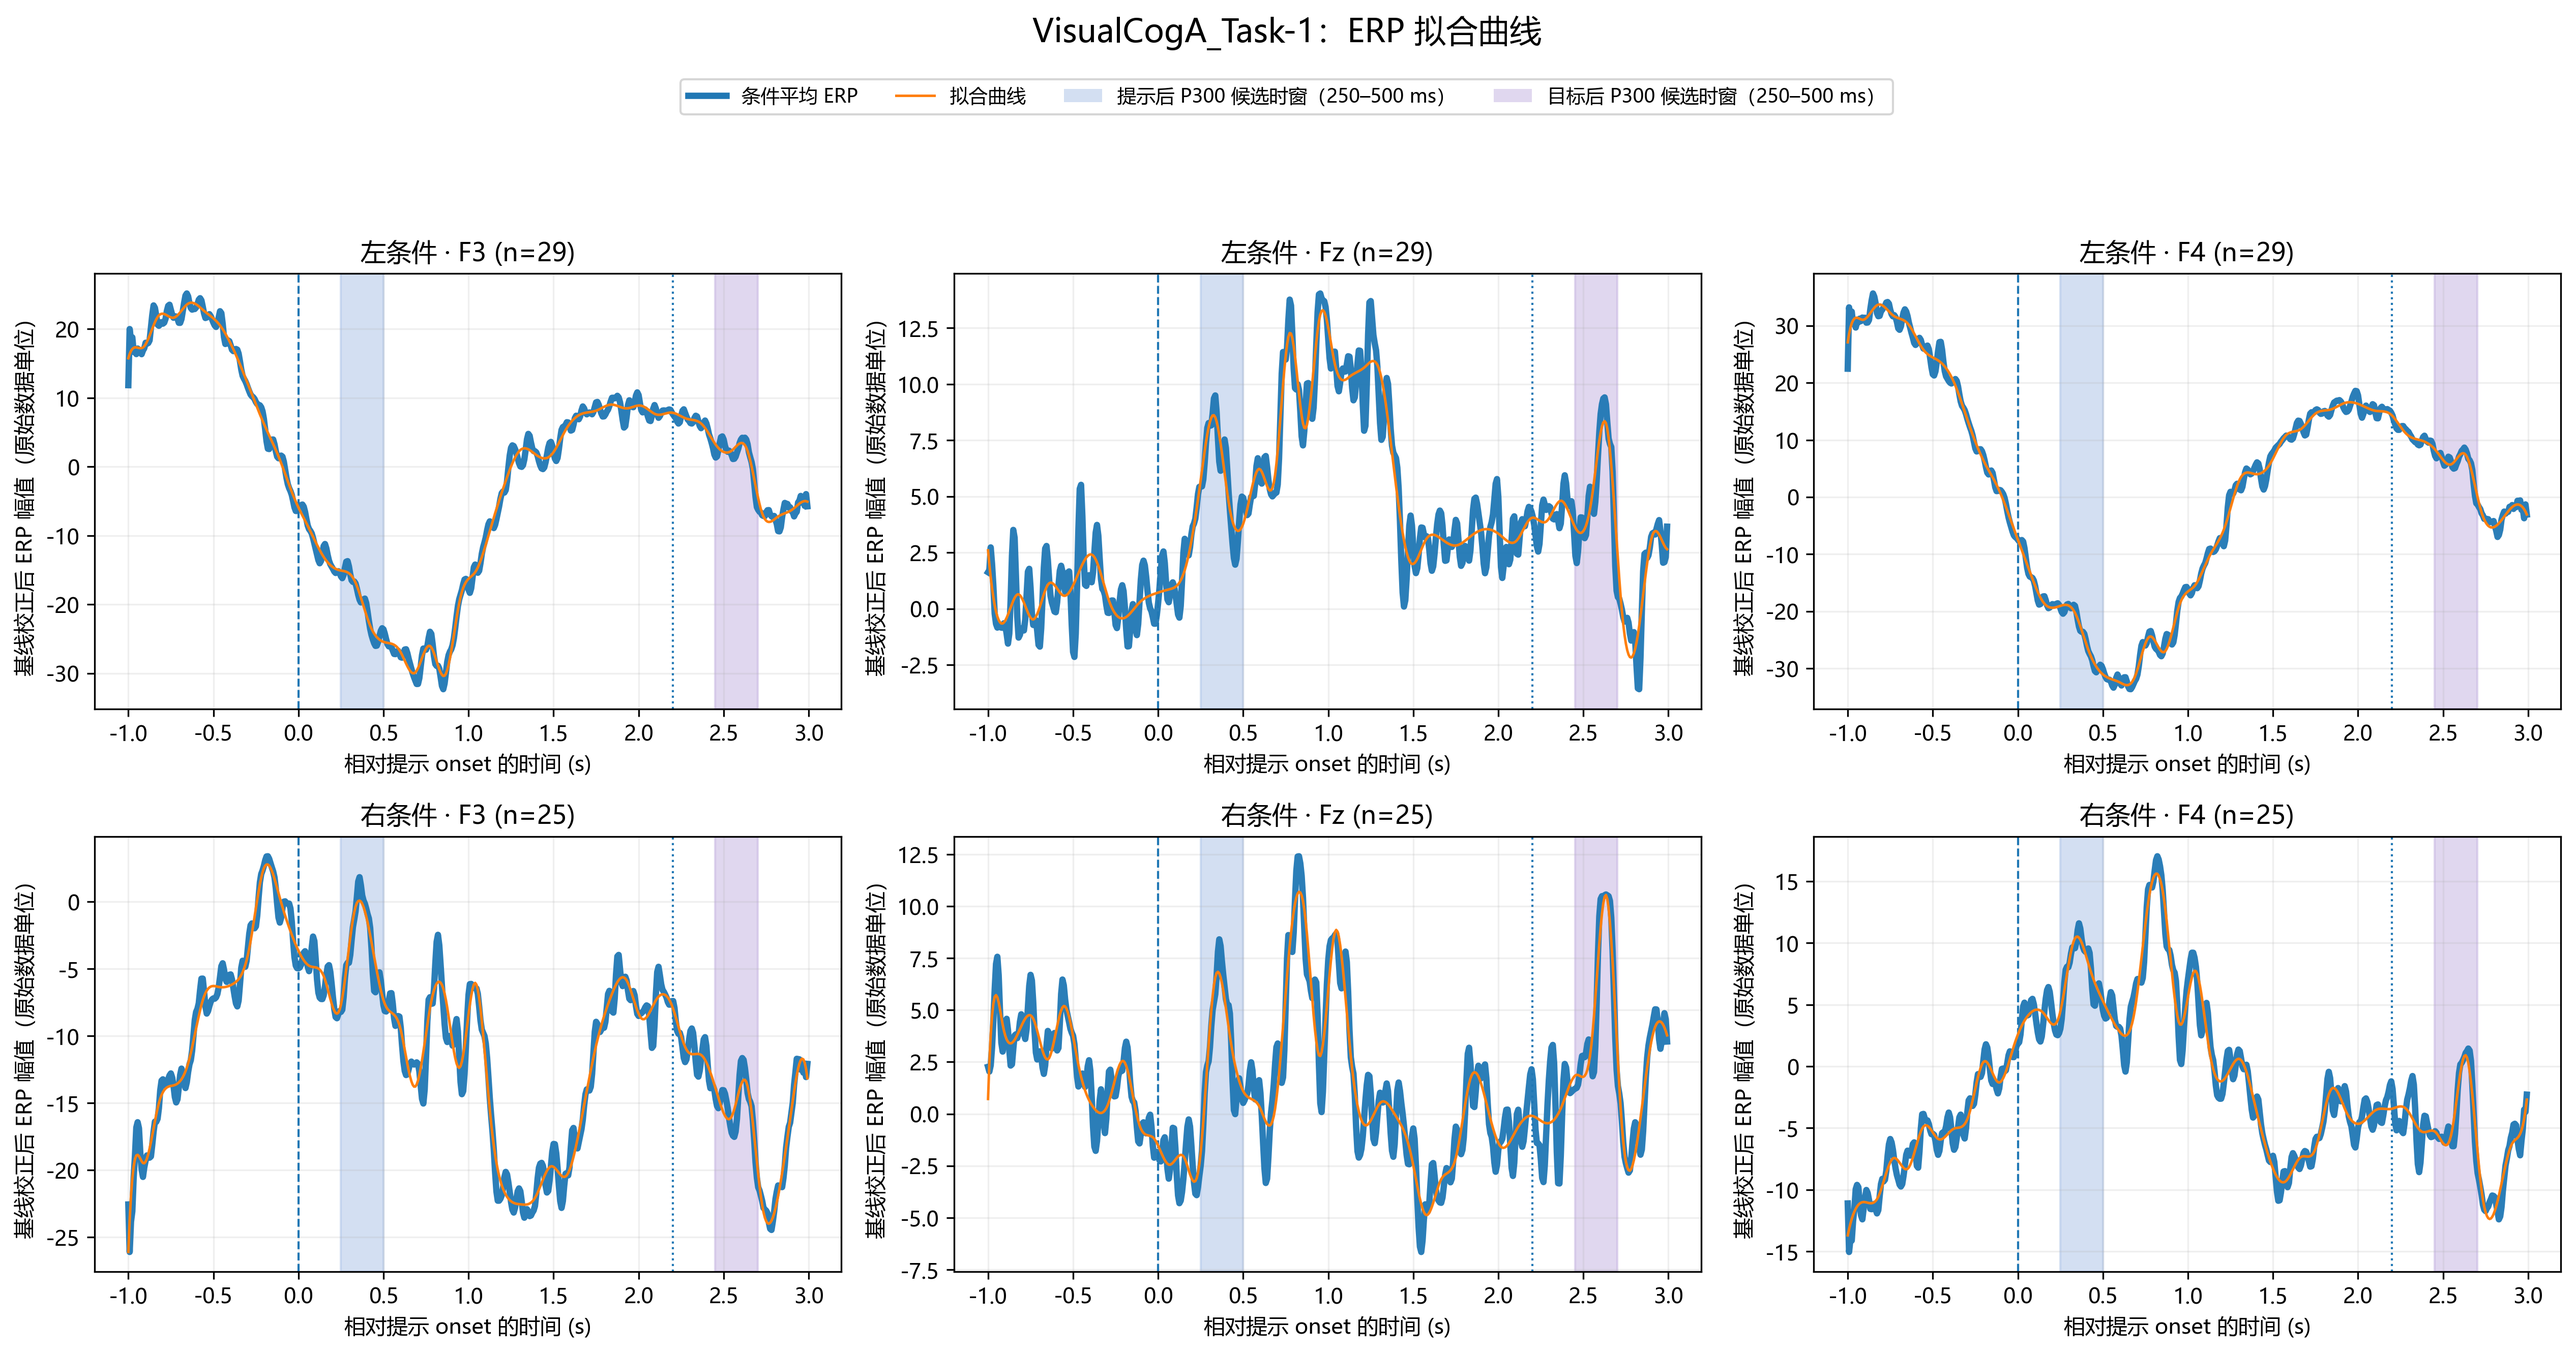
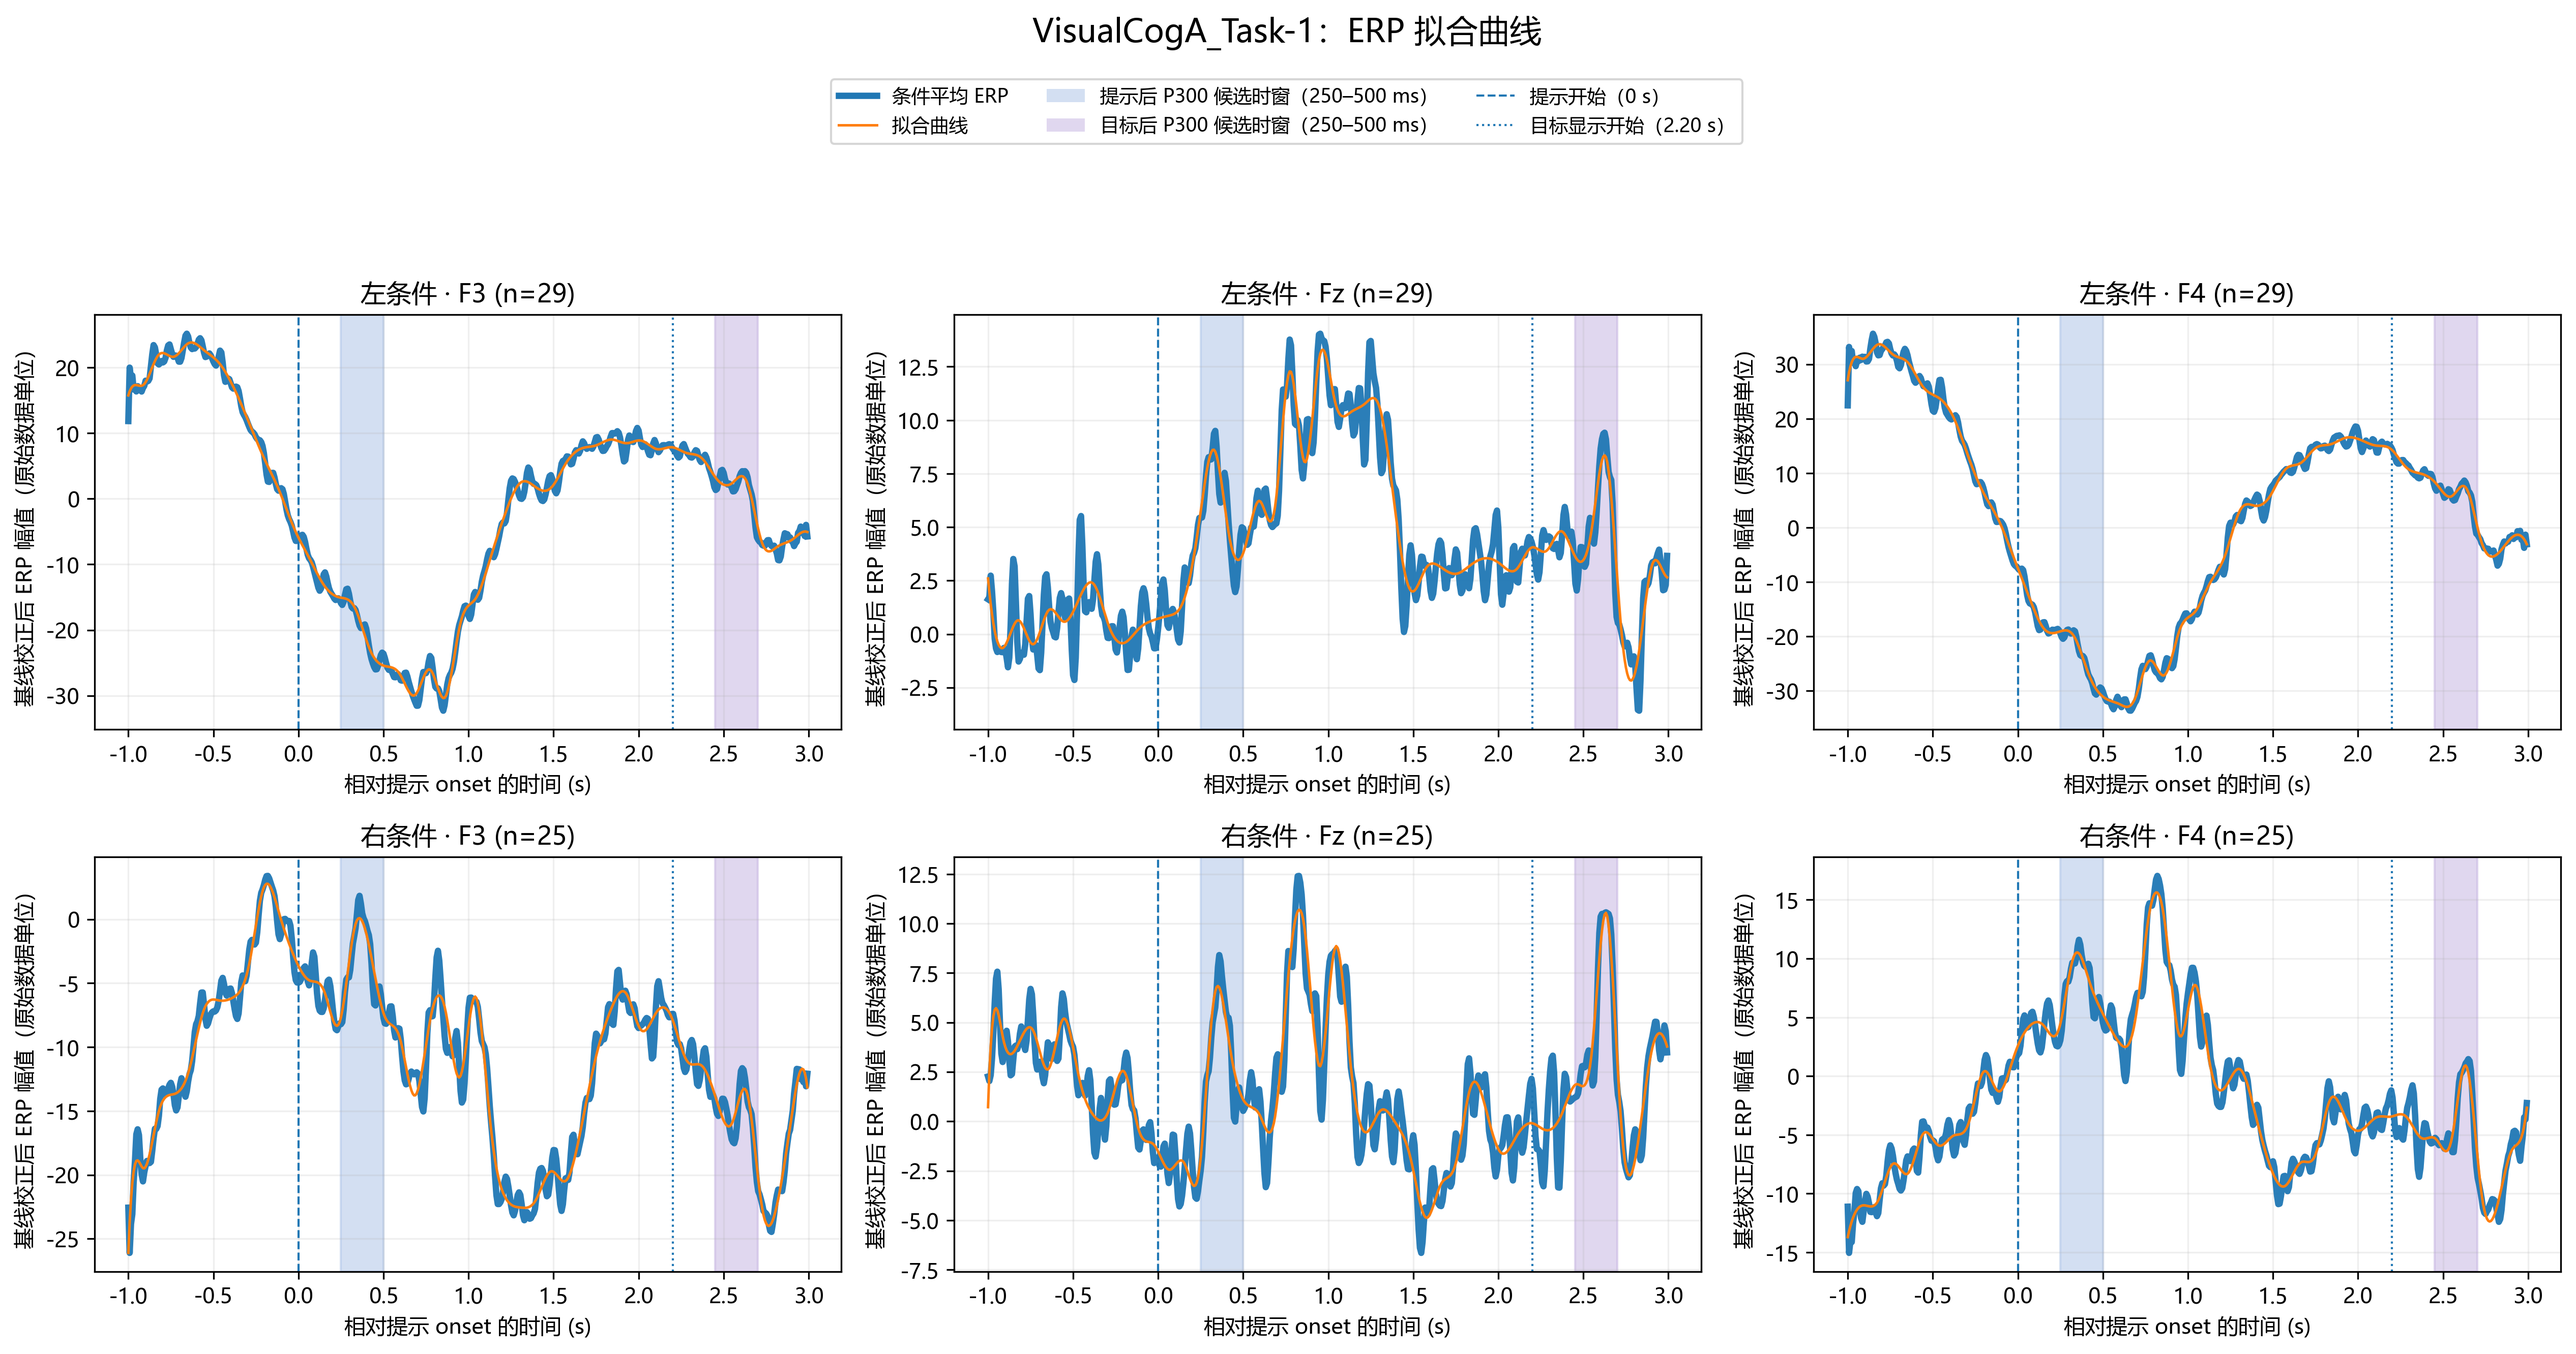
feat:补虚线名称

diff --git a/src/C/q1/11erp_extract.py b/src/C/q1/11erp_extract.py
@@ -3,6 +3,7 @@
 from pathlib import Path
 
 import matplotlib.pyplot as plt
+from matplotlib.lines import Line2D
 from matplotlib.patches import Patch
 import numpy as np
 import pandas as pd
@@ -195,19 +196,29 @@ def process_dataset(dataset_name):
             label="目标后 P300 候选时窗（250–500 ms）",
         ),
     ]
-    handles.extend(window_handles)
-    labels.extend(handle.get_label() for handle in window_handles)
+    stage_handles = [
+        Line2D(
+            [0], [0], color="tab:blue", linewidth=1, linestyle="--",
+            label="提示开始（0 s）",
+        ),
+        Line2D(
+            [0], [0], color="tab:blue", linewidth=1, linestyle=":",
+            label="目标显示开始（2.20 s）",
+        ),
+    ]
+    handles.extend(window_handles + stage_handles)
+    labels.extend(handle.get_label() for handle in window_handles + stage_handles)
     fig.legend(
         handles,
         labels,
         loc="upper center",
         bbox_to_anchor=(0.5, 0.93),
-        ncol=5,
+        ncol=4,
         fontsize=9,
         frameon=True,
     )
 
-    fig.tight_layout(rect=(0, 0, 1, 0.86))
+    fig.tight_layout(rect=(0, 0, 1, 0.84))
 
     fig.savefig(
         RESULT_DIR / f"{dataset_name}_ERP.png",

diff --git a/src/C/q1/10check_b_alpha_sensitivity.py b/src/C/q1/10check_b_alpha_sensitivity.py
@@ -8,6 +8,7 @@ import matplotlib
 
 matplotlib.use("Agg")
 import matplotlib.pyplot as plt
+from matplotlib.lines import Line2D
 from matplotlib.patches import Patch
 import numpy as np
 import pandas as pd
@@ -299,15 +300,25 @@ def install_external_legend(fig, source_axis, fontsize=8):
             label="目标后 P300 候选时窗（250–500 ms）",
         ),
     ]
-    handles.extend(window_handles)
-    labels.extend(handle.get_label() for handle in window_handles)
+    stage_handles = [
+        Line2D(
+            [0], [0], color="tab:blue", linewidth=1, linestyle="--",
+            label="提示开始（0 s）",
+        ),
+        Line2D(
+            [0], [0], color="tab:blue", linewidth=1, linestyle=":",
+            label="目标显示开始（2.20 s）",
+        ),
+    ]
+    handles.extend(window_handles + stage_handles)
+    labels.extend(handle.get_label() for handle in window_handles + stage_handles)
     fig.tight_layout(rect=(0, 0, 1.0, 0.84))
     return fig.legend(
         handles,
         labels,
         loc="upper center",
         bbox_to_anchor=(0.5, 0.92),
-        ncol=3,
+        ncol=4,
         fontsize=fontsize,
         frameon=True,
         columnspacing=1.5,

diff --git a/src/C/q1/14erp_spline_fit.py b/src/C/q1/14erp_spline_fit.py
@@ -359,7 +359,7 @@ def process_dataset(
             }))
 
     fig.suptitle(f"{dataset_name}：ERP 拟合曲线", fontsize=15, y=0.985)
-    fig.tight_layout(rect=(0, 0, 1, 0.88))
+    fig.tight_layout(rect=(0, 0, 1, 0.85))
     fig.legend(
         handles=[
             Line2D([0], [0], color="tab:blue", linewidth=3.0, label="条件平均 ERP"),
@@ -378,10 +378,18 @@ def process_dataset(
                 alpha=0.55,
                 label="目标后 P300 候选时窗（250–500 ms）",
             ),
+            Line2D(
+                [0], [0], color="tab:blue", linewidth=1, linestyle="--",
+                label="提示开始（0 s）",
+            ),
+            Line2D(
+                [0], [0], color="tab:blue", linewidth=1, linestyle=":",
+                label="目标显示开始（2.20 s）",
+            ),
         ],
         loc="upper center",
         bbox_to_anchor=(0.5, 0.945),
-        ncol=4,
+        ncol=3,
         fontsize=9,
         frameon=True,
     )

diff --git a/src/C/q1/9check_riemann_drop.py b/src/C/q1/9check_riemann_drop.py
@@ -8,6 +8,7 @@ import matplotlib
 
 matplotlib.use("Agg")
 import matplotlib.pyplot as plt
+from matplotlib.lines import Line2D
 from matplotlib.patches import Patch
 import numpy as np
 import pandas as pd
@@ -257,6 +258,14 @@ def plot_dataset(dataset_name, trials, relative_time, groups, threshold):
                 edgecolor="none",
                 alpha=0.55,
                 label="目标后 P300 候选时窗（250–500 ms）",
+            ),
+            Line2D(
+                [0], [0], color="tab:blue", linewidth=1, linestyle="--",
+                label="提示开始（0 s）",
+            ),
+            Line2D(
+                [0], [0], color="tab:blue", linewidth=1, linestyle=":",
+                label="目标显示开始（2.20 s）",
             ),
         ],
         loc="upper center",

diff --git a/src/C/q1/documents/10check_b_alpha_sensitivity_代码说明.md b/src/C/q1/documents/10check_b_alpha_sensitivity_代码说明.md
@@ -78,7 +78,7 @@ output/10check_b_alpha_sensitivity/
 脚本写出：
 
 1. `b_alpha_sensitivity_summary.csv`：每个数据集 × α × 左右条件各一行，共 16 行。包含 α、SQI 阈值、总保留数、左右条件保留数、当前条件 Trial 数、Fz 提示后与目标后候选峰幅值及潜伏期。CSV 使用 UTF-8 BOM 编码。
-2. `{dataset}_alpha_ERP_sensitivity.png`：每个 B 组一张 2×3 图。行是左右条件，列是 F3/Fz/F4；不同颜色表示 α，图例附该条件保留 Trial 数。标题下方的全图图例同时说明 α 曲线和两个候选窗：蓝色阴影表示提示后 P300 候选窗 `0.25～0.50 s`，粉色阴影表示目标后 P300 候选窗 `2.45～2.70 s`（相对提示 onset）。蓝色虚线和点线分别标出提示 onset `t=0` 与目标 onset `t=2.2 s`；所有面板均显示横轴刻度数值。图中若多个 α 的保留集合相同，其曲线会完全重合，视觉上表现为少于四条不同曲线。
+2. `{dataset}_alpha_ERP_sensitivity.png`：每个 B 组一张 2×3 图。行是左右条件，列是 F3/Fz/F4；不同颜色表示 α，图例附该条件保留 Trial 数。标题下方的全图图例同时说明 α 曲线、两个候选窗，以及提示开始（`t=0`，蓝色虚线）和目标显示开始（`t=2.2 s`，蓝色点线）。蓝色阴影表示提示后 P300 候选窗 `0.25～0.50 s`，粉色阴影表示目标后 P300 候选窗 `2.45～2.70 s`（相对提示 onset）；所有面板均显示横轴刻度数值。图中若多个 α 的保留集合相同，其曲线会完全重合，视觉上表现为少于四条不同曲线。
 
 当前一次运行的 α=.6 一致性及保留数快照：
 

diff --git a/src/C/q1/documents/11erp_extract_代码技术说明.md b/src/C/q1/documents/11erp_extract_代码技术说明.md
@@ -82,7 +82,7 @@ ERP_{q,c}(t)=\frac{1}{N_q}\sum_{i:cue\_type_i=q}X^{\mathrm{bc}}_{i,c}(t),
 
 ## 4. ERP 图
 
-每个数据集输出一张 `{dataset}_ERP.png`，包含左右两个面板；每个面板叠加 F3、Fz、F4 三条 ERP 曲线，并在标题中显示该条件的 Trial 数。蓝色竖直虚线和点线分别标出提示 onset `t=0` 和目标 onset `t=2.20 s`。蓝色阴影标出提示后 P300 候选窗 `0.25～0.50 s`，粉色阴影标出目标后 P300 候选窗 `2.45～2.70 s`（相对提示 onset）；图题下方的全图图例会说明两个候选窗的阶段和时间范围。左右面板均显示横轴刻度数值。
+每个数据集输出一张 `{dataset}_ERP.png`，包含左右两个面板；每个面板叠加 F3、Fz、F4 三条 ERP 曲线，并在标题中显示该条件的 Trial 数。蓝色竖直虚线和点线分别标出提示 onset `t=0` 和目标 onset `t=2.20 s`，图题下方的全图图例也用线型标注这两个阶段开始点。蓝色阴影标出提示后 P300 候选窗 `0.25～0.50 s`，粉色阴影标出目标后 P300 候选窗 `2.45～2.70 s`（相对提示 onset）；左右面板均显示横轴刻度数值。
 
 绘图前，脚本仅选择 `−0.2 ≤ relative_time ≤ 3.0 s` 的样本。当前代码未显式设置 `xlim`，所以 Matplotlib 会根据这些样本自动留出坐标边距；选取的信号区间是上述范围，但坐标框显示端点可能略宽于 `−0.2～3.0 s`。
 

diff --git a/src/C/q1/documents/14erp_spline_fit_代码说明与结果总结.md b/src/C/q1/documents/14erp_spline_fit_代码说明与结果总结.md
@@ -41,9 +41,7 @@ output/8riemann_denoise/{Dataset}_clean.mat
 - 橙色细实线：覆盖 MAT 完整时间范围的拟合曲线；图例使用较易理解的名称“拟合曲线”。
 - 蓝色阴影：提示后 P300 候选窗，相对提示 onset 为 `0.25–0.50 s`。
 - 粉色阴影：目标后 P300 候选窗，相对提示 onset 为 `2.45–2.70 s`，即目标 onset 后 `0.25–0.50 s`。
-- 每张图只有一份全图图例，置于总标题下方；图例同时说明蓝色/橙色曲线含义，以及蓝、粉色阴影分别对应的两个阶段 P300 候选窗。
-- `0 s` 竖直虚线：提示 onset。
-- `2.20 s` 竖直点线：目标 onset。
+- 每张图只有一份全图图例，置于总标题下方；图例说明蓝色/橙色曲线、蓝/粉色阴影所代表的两个阶段 P300 候选窗，以及提示开始（`0 s`，蓝色虚线）和目标显示开始（`2.20 s`，蓝色点线）。
 - 所有面板均显示横轴刻度数值，包括上排面板。
 - 图中不绘制逐点 95% bootstrap 区间。
 
